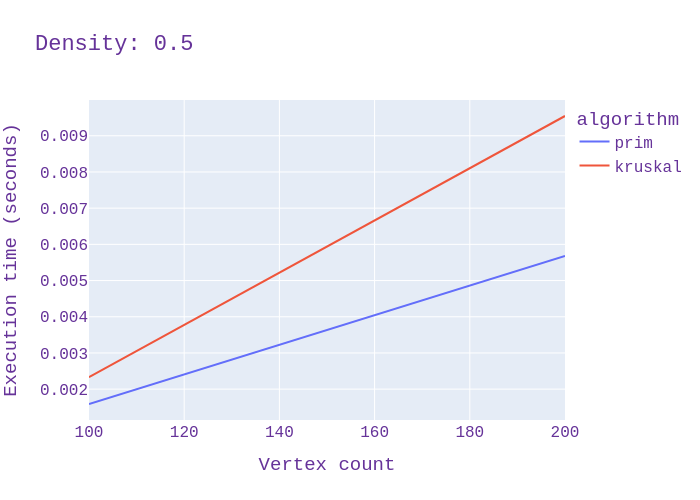
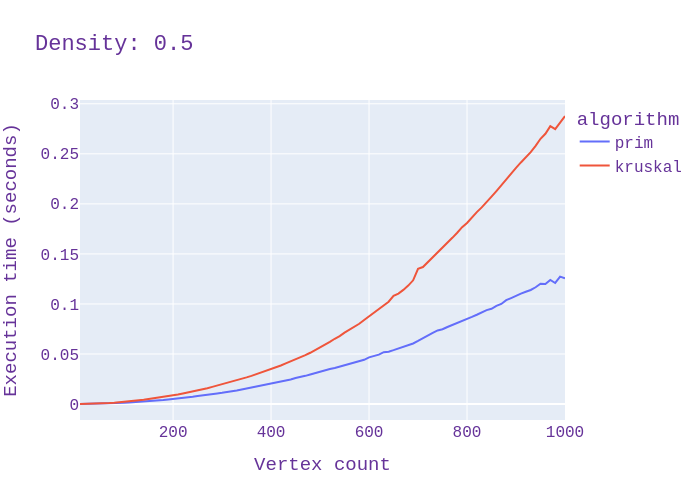
final benchmark

diff --git a/benchmark.py b/benchmark.py
@@ -12,9 +12,8 @@ def run(func: Callable, name: str, vertex_count: int, density: float, iters: int
     time_taken = 0
 
     for _ in SingleProgressBar(range(iters), f'V={vertex_count}, D={density} ({name})'):
-        time_taken += timeit(lambda: func(
-            generator.gnp_random_connected_graph(vertex_count, density
-        )), number=1)
+        graph = generator.gnp_random_connected_graph(vertex_count, density)
+        time_taken += timeit(lambda: func(graph), number=1)
 
     return time_taken / iters
 

diff --git a/README.md b/README.md
@@ -79,5 +79,12 @@ Total of 100 * 3 * 2 * 100 = 60000 runs. From each 100 iterations the mean were 
 ![Comparisons](results/images/density_0.1.png)
 ![Comparisons](results/images/density_0.5.png)
 ![Comparisons](results/images/density_0.9.png)
-#### Results
+### Results
 We can clearly see that prim's algorithms run faster than kruskal's. Nevertheless, the difference between them is smaller in sparse graphs (density 0.1) and bigger in dense graphs (density 0.9)
+
+So, we can conclude that it's always more efficient to use Prim's algorithm, even for sparse graph.
+
+P.S. From given plots we can see that time complexity is near O(n<sup>2</sup>log(n)), and it's OK since E=*p**V<sup>2</sup>, where *p* is density of the graph
+### Contributors
+* Oleksii Mytnyk
+* Dmytro Mykytenko
